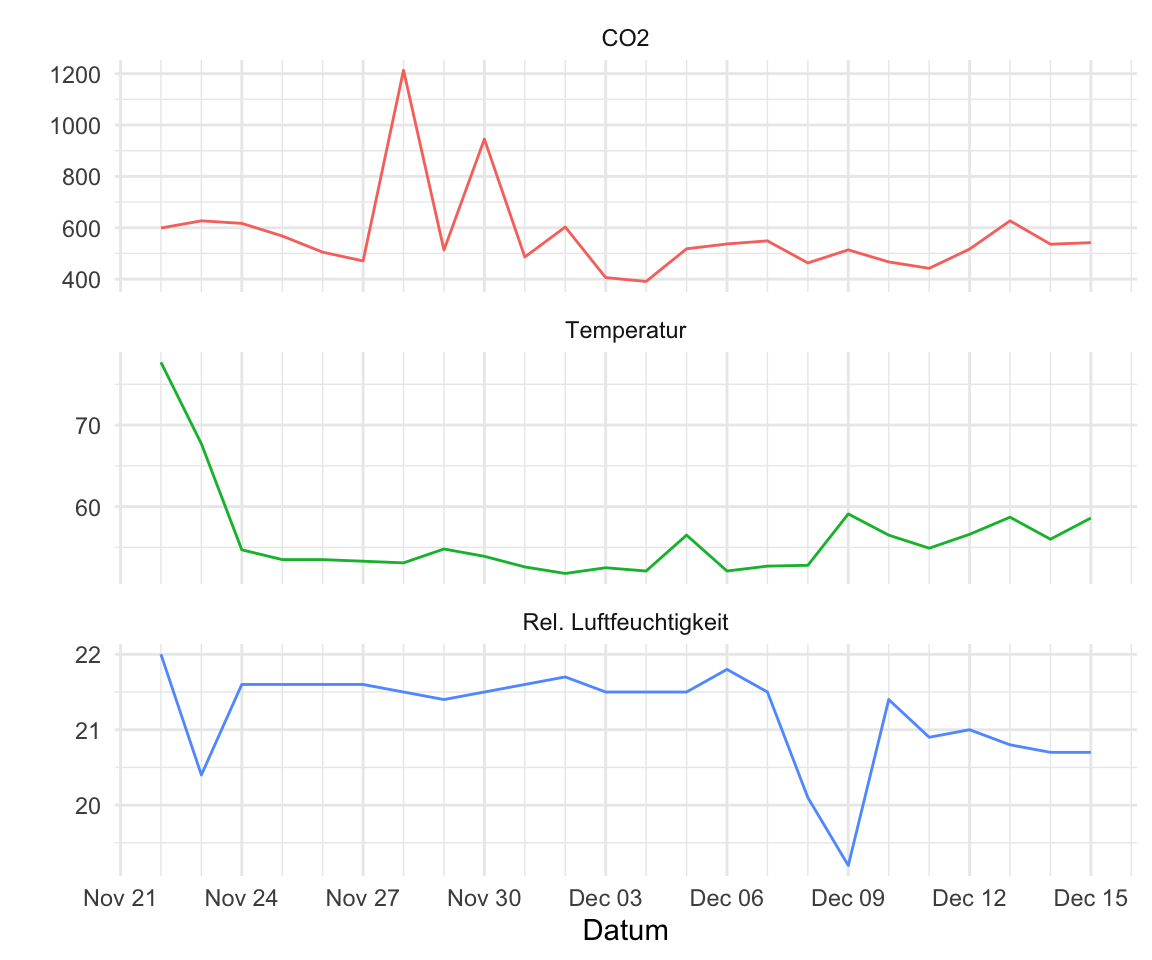
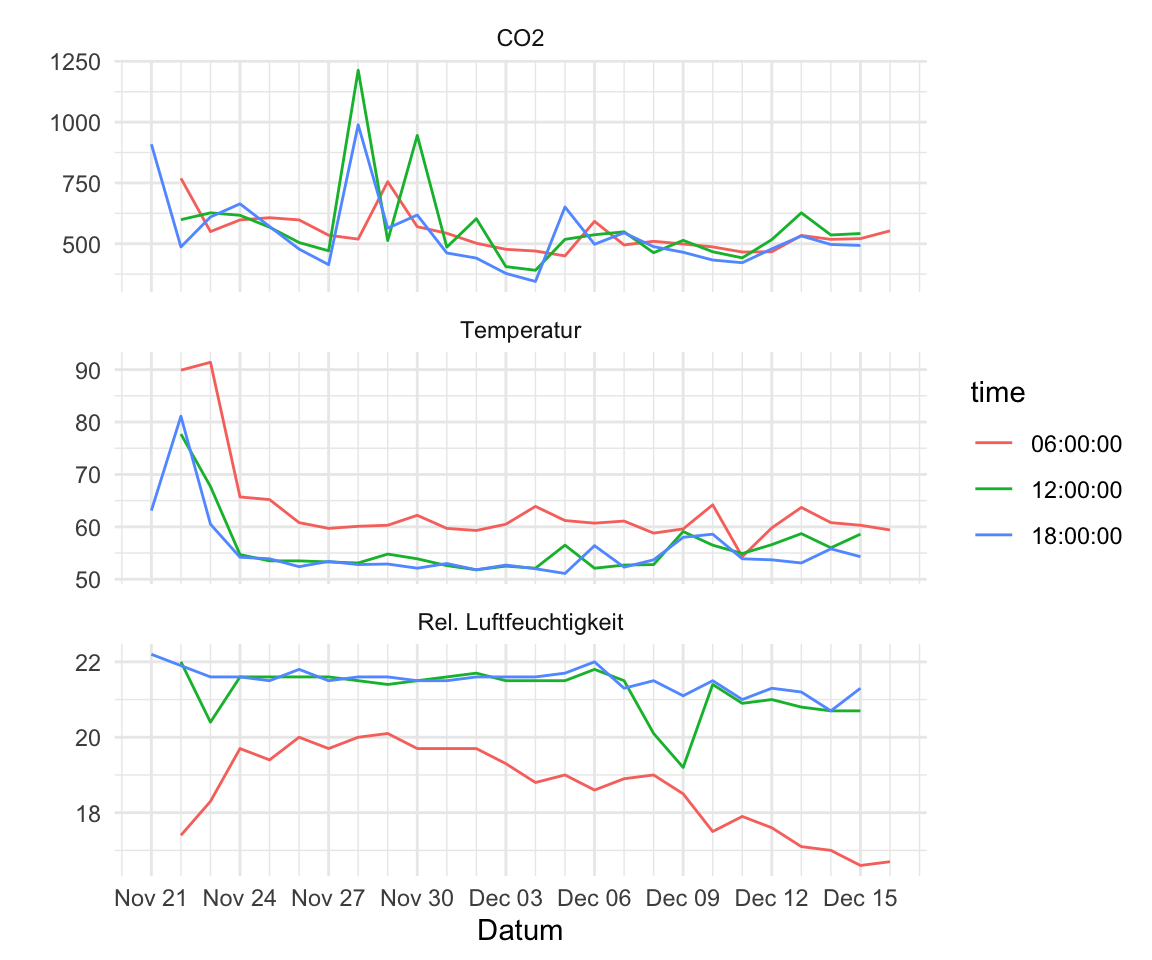
added text

diff --git a/docs/app-example-analysis.html b/docs/app-example-analysis.html
@@ -594,7 +594,7 @@ code span.wa { color: #60a0b0; font-weight: bold; font-style: italic; } /* Warni
 </header><div class="cell">
 
 </div>
-<p><em>Version vom January 04, 2023 um 11:21:58</em></p>
+<p><em>Version vom January 05, 2023 um 15:22:11</em></p>
 <div class="callout-tip callout callout-style-default callout-captioned">
 <div class="callout-header d-flex align-content-center">
 <div class="callout-icon-container">
@@ -620,10 +620,8 @@ Beispielhafte Auswertungen per Video
 <li>In <a href="#sec-plowing-data"><span>Kapitel&nbsp;A.9</span></a> haben wir nochmal ein schönes Beispiel für eine Analyse mit mehreren Faktoren und verschiedenen Outcomes. Wir haben also einen Blumenstrauß an Daten, die wir sortieren und auswerten müssen. Da ich selber keine Ahnung vom Pflügen habe, gehen wir die Sache distanziert durch.</li>
 <li>In <a href="#sec-app-mixed-cutting"><span>Kapitel&nbsp;A.10</span></a> schauen wir uns ein lineares gemischtes Modell an. Das heißt, wir wollen einen Gruppenvergleich rechnen und dabei die verschiedenen Zeitpunkte mit berücksichtigen. Anstatt also jeden Zeitpunkt einzeln, rechnen wir alle Zeitpunkte zusammen.</li>
 <li>In <a href="#sec-app-spinach-metal"><span>Kapitel&nbsp;A.11</span></a> wollen wir uns die Konzentration von drei Spurenelementen als Outcome in Blättern und Stielen der Spinatpflanze anschauen. Wir haben hierfür dann die Konzentration von Fe, Cd und Zn gemessen. Insgesamt gab es sieben verschiedene Behandlungsformen.</li>
-<li>In <a href="#sec-app-logger"><span>Kapitel&nbsp;A.12</span></a>
-</li>
-<li>In <a href="#sec-app-golf-green"><span>Kapitel&nbsp;A.13</span></a>
-</li>
+<li>In <a href="#sec-app-logger"><span>Kapitel&nbsp;A.12</span></a> schauen wir uns die Daten eines automatischen Log-Gerätes einmal an. Wir haben die Daten von über 35000 Messungen in über knapp zwei Wochen erhoben. Wir wollen jetzt diese Daten auf verschiedene Art und Weise visualisieren und die Ergebnisse der Plots vergleichen.</li>
+<li>In <a href="#sec-app-golf-green"><span>Kapitel&nbsp;A.13</span></a> betrachten wir das Wachstum von Pilzen auf zwei Grasflächen und vier Blöcken. Insgesamt wurden fünfzehn Behandlungen auf den Rasen aufgebracht, was natürlich zu einer gewaltigen Anzahl an Vergleichen führt.</li>
 </ul>
 <p>Je weiter du nach unten in diesem Kapitel kommst, desto weniger Text wirst du finden. Ich werde noch eine Zeit brauchen, bis ich alles wieder schon mit Text hier verarbeitet habe. Es wird aber immer mal wieder etwas <em>messy</em> aussehen. Hier wird eben auch gearbeitet. Der R Code wird dann aber immer funktionieren, nur die Beschreibungen sind dann eben manchmal nicht da.</p>
 <section id="genutzte-r-pakete" class="level2" data-number="A.1"><h2 data-number="A.1" class="anchored" data-anchor-id="genutzte-r-pakete">
@@ -709,7 +707,7 @@ II 25 32 5 1</code></pre>
     Pearson's Chi-squared test
 
 data:  rel_mat
-X-squared = 13.8689, df = 3, p-value = 0.0030892</code></pre>
+X-squared = 13.869, df = 3, p-value = 0.003089</code></pre>
 </div>
 </div>
 <p>Wir erhalten einen sehr kleinen <span class="math inline">\(p\)</span>-Wert mit <span class="math inline">\(0.003\)</span>. Wir können daher die Nullhypothese ablehnen, da der <span class="math inline">\(p\)</span>-Wert kleiner ist als das Signifikanzniveau <span class="math inline">\(\alpha\)</span> mit 5%. Wir haben ein signifikantes Ergebnis. Wir können von einen Zusamenhang zwischen den beiden Gruppen ausgehen.</p>
@@ -2145,25 +2143,25 @@ Formula: rsp ~ trt + block + trt:block + (1 | week)
 REML criterion at convergence: 1067.5
 
 Scaled residuals: 
-     Min       1Q   Median       3Q      Max 
--3.59023 -0.52072 -0.00942  0.49560  4.68315 
+    Min      1Q  Median      3Q     Max 
+-3.5902 -0.5207 -0.0094  0.4956  4.6832 
 
 Random effects:
  Groups   Name        Variance Std.Dev.
- week     (Intercept) 109.134  10.4467 
- Residual              13.818   3.7173 
+ week     (Intercept) 109.13   10.447  
+ Residual              13.82    3.717  
 Number of obs: 192, groups:  week, 8
 
 Fixed effects:
-                       Estimate Std. Error  t value
-(Intercept)           47.284722   3.770618  12.5403
-trtnodium_3rd        -21.298611   1.073088 -19.8480
-trtnodium_5th        -15.576389   1.073088 -14.5155
-trtstrong            -29.034722   1.073088 -27.0572
-block2                -0.014028   1.073088  -0.0131
-trtnodium_3rd:block2  -2.194167   1.517575  -1.4458
-trtnodium_5th:block2  -1.576111   1.517575  -1.0386
-trtstrong:block2       2.979444   1.517575   1.9633
+                      Estimate Std. Error t value
+(Intercept)           47.28472    3.77062  12.540
+trtnodium_3rd        -21.29861    1.07309 -19.848
+trtnodium_5th        -15.57639    1.07309 -14.515
+trtstrong            -29.03472    1.07309 -27.057
+block2                -0.01403    1.07309  -0.013
+trtnodium_3rd:block2  -2.19417    1.51758  -1.446
+trtnodium_5th:block2  -1.57611    1.51758  -1.039
+trtstrong:block2       2.97944    1.51758   1.963
 
 Correlation of Fixed Effects:
             (Intr) trtn_3 trtn_5 trtstr block2 tr_3:2 tr_5:2
@@ -2319,10 +2317,10 @@ P value adjustment: bonferroni method for 3 tests </code></pre>
 <pre><code>Analysis of Variance Table
 
 Response: rsp
-          Df   Sum Sq  Mean Sq  F value        Pr(&gt;F)    
-trt        6 1015.454 169.2424 19.05310 0.00000067589 ***
-block      3   84.352  28.1174  3.16542      0.049752 *  
-Residuals 18  159.888   8.8827                           
+          Df  Sum Sq Mean Sq F value    Pr(&gt;F)    
+trt        6 1015.45 169.242 19.0531 6.759e-07 ***
+block      3   84.35  28.117  3.1654   0.04975 *  
+Residuals 18  159.89   8.883                      
 ---
 Signif. codes:  0 '***' 0.001 '**' 0.01 '*' 0.05 '.' 0.1 ' ' 1</code></pre>
 </div>
@@ -2369,7 +2367,11 @@ block     |           0.35 | [0.00, 1.00]
  trt3 - trt6   -4.721 2.11 18  -2.240  0.7970
  trt3 - trt7   -6.066 2.11 18  -2.878  0.2101
  trt4 - trt5    6.211 2.11 18   2.947  0.1809
- [ reached getOption("max.print") -- omitted 5 rows ]
+ trt4 - trt6    0.552 2.11 18   0.262  1.0000
+ trt4 - trt7   -0.793 2.11 18  -0.376  1.0000
+ trt5 - trt6   -5.659 2.11 18  -2.685  0.3175
+ trt5 - trt7   -7.004 2.11 18  -3.323  0.0794
+ trt6 - trt7   -1.345 2.11 18  -0.638  1.0000
 
 Results are averaged over the levels of: block 
 P value adjustment: bonferroni method for 21 tests </code></pre>
@@ -2596,13 +2598,14 @@ NOTE: If two or more means share the same grouping symbol,
 <p>Mit der Option <code>print(n = 15)</code> kannst du dir die ersten fünfzehn Zeilen ausgeben lassen. du musst also schauen, wie viele Zeilen dein Tibble hat und dann kannst du dir das ganze Tibble über die Funktion <code><a href="https://rdrr.io/r/base/print.html">print()</a></code> ausgeben lassen. Ich nutze immer diese Art der Ausgabe mit <code><a href="https://rdrr.io/r/base/print.html">print()</a></code> da es sicherer ist, als sich immer den ganzen Datensatz wiedergeben zu lassen. Mit sicherer meine ich, dass ich mir nicht die ganze R Console mit der Ausgabe zubaue.</p>
 </section></section><section id="sec-app-logger" class="level2" data-number="A.12"><h2 data-number="A.12" class="anchored" data-anchor-id="sec-app-logger">
 <span class="header-section-number">A.12</span> Daten eines automatischen Loggers</h2>
+<p>Die Daten des Loggers liegen in einer Exceldatei ab. Wir haben jede Minute die Konzentration von CO<span class="math inline">\(_2\)</span>, die Temperatur und die relative Feuchte messen lassen. Da wir das Datum in einem ungünstigen Format vorliegen haben, müssen wir der Funktion <code>as_date()</code> die Tage, Monate und das Jahr als Format mitgeben. Wir schreiben <code>'%d.%m.%Y'</code> und meinen damit, dass erst der Tag, dann der Monat und dann das Jahr angeben ist. Getrennt sind die Tage, Monate und Jahre durch einen Punkt. Dann verbinden wir noch die Spalte des Datums mit der Spalte des Uhrzeit und bauen uns daraus eine <code>date_time</code> Spalte. Die <code>date_time</code> Spalte brauchen wir um später für jeden Zeitpunkt die gemessenen Werte darstellen zu können.</p>
 <div class="cell">
 <div class="sourceCode" id="cb143"><pre class="downlit sourceCode r code-with-copy"><code class="sourceCode R"><span><span class="va">log_tbl</span> <span class="op">&lt;-</span> <span class="fu">read_excel</span><span class="op">(</span><span class="st">"data/log_data.xlsx"</span><span class="op">)</span> <span class="op">%&gt;%</span> </span>
 <span>  <span class="fu">mutate</span><span class="op">(</span>date <span class="op">=</span> <span class="fu">as_date</span><span class="op">(</span><span class="va">date</span>, format <span class="op">=</span> <span class="st">'%d.%m.%Y'</span><span class="op">)</span>,</span>
 <span>         date_time <span class="op">=</span> <span class="fu">as_datetime</span><span class="op">(</span><span class="fu">str_c</span><span class="op">(</span><span class="va">date</span>, <span class="st">" "</span>, <span class="va">time</span><span class="op">)</span><span class="op">)</span><span class="op">)</span> <span class="op">%&gt;%</span> </span>
 <span>  <span class="fu">select</span><span class="op">(</span><span class="va">date_time</span>, <span class="fu">everything</span><span class="op">(</span><span class="op">)</span><span class="op">)</span></span></code><button title="In die Zwischenablage kopieren" class="code-copy-button"><i class="bi"></i></button></pre></div>
 </div>
-<p>Insgesamt hat unsere Datei <span class="math inline">\(n = 35761\)</span> Beobachtungen für die Zeit vom 21. November 2022 bis zum 16. Dezember 2022.</p>
+<p>Insgesamt hat unsere Datei <span class="math inline">\(n = 35761\)</span> Beobachtungen für die Zeit vom 21. November 2022 bis zum 16. Dezember 2022. Dank unserem Tibble wird nicht die ganze Datei wiedergegeben sondern nur die ersten zehn Zeilen.</p>
 <div class="cell">
 <div class="sourceCode" id="cb144"><pre class="downlit sourceCode r code-with-copy"><code class="sourceCode R"><span><span class="va">log_tbl</span></span></code><button title="In die Zwischenablage kopieren" class="code-copy-button"><i class="bi"></i></button></pre></div>
 <div class="cell-output cell-output-stdout">
@@ -2622,7 +2625,7 @@ NOTE: If two or more means share the same grouping symbol,
 # … with 35,751 more rows</code></pre>
 </div>
 </div>
-<p>Wir wollen dann auch die Outcomes nochmal anders benennen.</p>
+<p>Wir immer müssen wir die Daten noch aus dem Wide-Format in das Long-Format überführen. Wir wollen dann auch die Outcomes nochmal anders benennen und machen die Umbenennung gleich bei der Erstellung der Faktoren. Dann sind wir auch schon fertig mit der Datenvorbereitung und können dann mit den Abbilungen beginnen.</p>
 <div class="cell">
 <div class="sourceCode" id="cb146"><pre class="downlit sourceCode r code-with-copy"><code class="sourceCode R"><span><span class="va">log_plot_tbl</span> <span class="op">&lt;-</span> <span class="va">log_tbl</span> <span class="op">%&gt;%</span> </span>
 <span>  <span class="fu">pivot_longer</span><span class="op">(</span>cols <span class="op">=</span> <span class="va">co2</span><span class="op">:</span><span class="va">relh</span>, </span>
@@ -2631,7 +2634,7 @@ NOTE: If two or more means share the same grouping symbol,
 <span>  <span class="fu">mutate</span><span class="op">(</span>outcome <span class="op">=</span> <span class="fu"><a href="https://rdrr.io/r/base/factor.html">factor</a></span><span class="op">(</span><span class="va">outcome</span>, </span>
 <span>                          labels <span class="op">=</span> <span class="fu"><a href="https://rdrr.io/r/base/c.html">c</a></span><span class="op">(</span><span class="st">"CO2"</span>, <span class="st">"Temperatur"</span>, <span class="st">"Rel. Luftfeuchtigkeit"</span><span class="op">)</span><span class="op">)</span><span class="op">)</span> </span></code><button title="In die Zwischenablage kopieren" class="code-copy-button"><i class="bi"></i></button></pre></div>
 </div>
-<p><a href="#fig-app-log-01">Abbildung&nbsp;<span>A.18</span></a></p>
+<p>In <a href="#fig-app-log-01">Abbildung&nbsp;<span>A.18</span></a> sehen wir alle Messdaten aufgetragen. Die Zeit für den Plot ist relativ überschaubar und wir erhalten das Ergebnis in wenigen Augenblicken. Daher spricht eigentlich nichts für diese Darstellung über alle Messdaten. Wir sehen, dass die Temperatur am Anfang höher war, als im späteren Verlauf. Auch haben wir einen Peak an CO<span class="math inline">\(_2\)</span> um den 29. November sowie ein paar Tage später. Die Luftfeuchte zeigt im Laufe der Messungen eine immer höhere Variabilität.</p>
 <div class="cell" data-layout-align="center">
 <div class="sourceCode" id="cb147"><pre class="downlit sourceCode r code-with-copy"><code class="sourceCode R"><span><span class="fu">ggplot</span><span class="op">(</span><span class="va">log_plot_tbl</span>, <span class="fu">aes</span><span class="op">(</span><span class="va">date_time</span>, <span class="va">rsp</span>, color <span class="op">=</span> <span class="va">outcome</span><span class="op">)</span><span class="op">)</span> <span class="op">+</span></span>
 <span>  <span class="fu">theme_minimal</span><span class="op">(</span><span class="op">)</span> <span class="op">+</span></span>
@@ -2649,6 +2652,7 @@ NOTE: If two or more means share the same grouping symbol,
 </div>
 </div>
 </div>
+<p>Wir könnten über die <code>summarise</code> Funktion auch die Werte für jeden Tag mitteln und uns die Standardabweichung über den Tag als Wert für die Variabilität wiedergeben lassen.</p>
 <div class="cell">
 <div class="sourceCode" id="cb148"><pre class="downlit sourceCode r code-with-copy"><code class="sourceCode R"><span><span class="va">log_plot_sum_tbl</span> <span class="op">&lt;-</span> <span class="va">log_plot_tbl</span> <span class="op">%&gt;%</span> </span>
 <span>  <span class="fu">group_by</span><span class="op">(</span><span class="va">date</span>, <span class="va">outcome</span><span class="op">)</span> <span class="op">%&gt;%</span> </span>
@@ -2656,7 +2660,7 @@ NOTE: If two or more means share the same grouping symbol,
 <span>            median <span class="op">=</span> <span class="fu"><a href="https://rdrr.io/r/stats/median.html">median</a></span><span class="op">(</span><span class="va">rsp</span><span class="op">)</span>,</span>
 <span>            sd <span class="op">=</span> <span class="fu"><a href="https://rdrr.io/r/stats/sd.html">sd</a></span><span class="op">(</span><span class="va">rsp</span><span class="op">)</span><span class="op">)</span></span></code><button title="In die Zwischenablage kopieren" class="code-copy-button"><i class="bi"></i></button></pre></div>
 </div>
-<p><a href="#fig-app-log-02">Abbildung&nbsp;<span>A.19</span></a></p>
+<p>In der <a href="#fig-app-log-02">Abbildung&nbsp;<span>A.19</span></a> plotten wir uns einmal die Mittelwerte für jeden Tag und die entsprechende Standardabweichung als schattierte Fläche. Hier sehen wir sehr schön den Abfall der Luftfeuchte sowie die eher konstante Temperatur ab dem 24. November. Auch wird der Peak in der CO<span class="math inline">\(_2\)</span> Konzentration etwas ausgeglichen. Wir sehen den Effekt aber immer noch gut.</p>
 <div class="cell" data-layout-align="center">
 <div class="sourceCode" id="cb149"><pre class="downlit sourceCode r code-with-copy"><code class="sourceCode R"><span><span class="fu">ggplot</span><span class="op">(</span><span class="va">log_plot_sum_tbl</span>, <span class="fu">aes</span><span class="op">(</span><span class="va">date</span>, <span class="va">mean</span><span class="op">)</span><span class="op">)</span> <span class="op">+</span></span>
 <span>  <span class="fu">theme_minimal</span><span class="op">(</span><span class="op">)</span> <span class="op">+</span></span>
@@ -2677,24 +2681,25 @@ NOTE: If two or more means share the same grouping symbol,
 </div>
 </div>
 </div>
+<p>Abschließend könnten wir uns auch nur gewisse Zeitpunkte anschauen. Wir wollen also zum Beispiel nur die Werte für die Zeitpunkte um 6 Uhr, 12 Uhr und 18 Uhr visualisieren. Dann filtern wir nur diese Zeitpunkte heraus und können diese Zeitpunkte dann als eigenständige Linien einzeichnen.</p>
 <div class="cell">
 <div class="sourceCode" id="cb150"><pre class="downlit sourceCode r code-with-copy"><code class="sourceCode R"><span><span class="va">log_plot_filter_tbl</span> <span class="op">&lt;-</span> <span class="va">log_plot_tbl</span> <span class="op">%&gt;%</span> </span>
-<span>  <span class="fu"><a href="https://rdrr.io/r/stats/filter.html">filter</a></span><span class="op">(</span><span class="va">time</span> <span class="op">==</span> <span class="st">"12:00:00"</span><span class="op">)</span></span></code><button title="In die Zwischenablage kopieren" class="code-copy-button"><i class="bi"></i></button></pre></div>
+<span>  <span class="fu"><a href="https://rdrr.io/r/stats/filter.html">filter</a></span><span class="op">(</span><span class="va">time</span> <span class="op"><a href="https://rdrr.io/r/base/match.html">%in%</a></span> <span class="fu"><a href="https://rdrr.io/r/base/c.html">c</a></span><span class="op">(</span><span class="st">"06:00:00"</span>, <span class="st">"12:00:00"</span>, <span class="st">"18:00:00"</span><span class="op">)</span><span class="op">)</span></span></code><button title="In die Zwischenablage kopieren" class="code-copy-button"><i class="bi"></i></button></pre></div>
 </div>
-<p><a href="#fig-app-log-03">Abbildung&nbsp;<span>A.20</span></a></p>
+<p>In <a href="#fig-app-log-03">Abbildung&nbsp;<span>A.20</span></a> sehen wir die Verläufe für die Messzeitpunkte um 6 Uhr, 12 Uhr und dann 18 Uhr. Spannender weise fällt um 12 Uhr die Luftfeuchtigkeit am 9. Dezember. Auch sind die Werte etwas anders für jede Uhrzeit. Da ich mich hier nicht auskenne, was wo und wie gemessen wurde, lassen wir das hier mal so stehen.</p>
 <div class="cell" data-layout-align="center">
-<div class="sourceCode" id="cb151"><pre class="downlit sourceCode r code-with-copy"><code class="sourceCode R"><span><span class="fu">ggplot</span><span class="op">(</span><span class="va">log_plot_filter_tbl</span>, <span class="fu">aes</span><span class="op">(</span><span class="va">date</span>, <span class="va">rsp</span>, color <span class="op">=</span> <span class="va">outcome</span><span class="op">)</span><span class="op">)</span> <span class="op">+</span></span>
+<div class="sourceCode" id="cb151"><pre class="downlit sourceCode r code-with-copy"><code class="sourceCode R"><span><span class="fu">ggplot</span><span class="op">(</span><span class="va">log_plot_filter_tbl</span>, <span class="fu">aes</span><span class="op">(</span><span class="va">date</span>, <span class="va">rsp</span>, color <span class="op">=</span> <span class="va">time</span><span class="op">)</span><span class="op">)</span> <span class="op">+</span></span>
 <span>  <span class="fu">theme_minimal</span><span class="op">(</span><span class="op">)</span> <span class="op">+</span></span>
 <span>  <span class="fu">geom_line</span><span class="op">(</span><span class="op">)</span> <span class="op">+</span></span>
 <span>  <span class="fu">facet_wrap</span><span class="op">(</span><span class="op">~</span> <span class="va">outcome</span>, scales <span class="op">=</span> <span class="st">"free_y"</span>, nrow <span class="op">=</span> <span class="fl">3</span><span class="op">)</span> <span class="op">+</span></span>
 <span>  <span class="fu">scale_x_date</span><span class="op">(</span>date_labels <span class="op">=</span> <span class="st">"%b %d"</span>, date_breaks <span class="op">=</span> <span class="st">"3 day"</span>,</span>
 <span>               date_minor_breaks <span class="op">=</span> <span class="st">"1 day"</span><span class="op">)</span> <span class="op">+</span></span>
-<span>  <span class="fu">theme</span><span class="op">(</span>legend.position <span class="op">=</span> <span class="st">"none"</span><span class="op">)</span> <span class="op">+</span></span>
+<span>  <span class="co">##theme(legend.position = "none") +</span></span>
 <span>  <span class="fu">labs</span><span class="op">(</span>x <span class="op">=</span> <span class="st">"Datum"</span>, y <span class="op">=</span> <span class="st">""</span><span class="op">)</span></span></code><button title="In die Zwischenablage kopieren" class="code-copy-button"><i class="bi"></i></button></pre></div>
 <div class="cell-output-display">
 <div id="fig-app-log-03" class="quarto-figure quarto-figure-center anchored">
 <figure class="figure"><p><img src="app-example-analysis_files/figure-html/fig-app-log-03-1.png" class="img-fluid figure-img" width="576"></p>
-<p></p><figcaption class="figure-caption">Abbildung&nbsp;A.20— Abbildung der drei Outcomes für den Zeitpunkt 12:00:00.</figcaption><p></p>
+<p></p><figcaption class="figure-caption">Abbildung&nbsp;A.20— Abbildung der drei Outcomes für den Zeitpunkt 6 Uhr, 12 Uhr und 18 Uhr.</figcaption><p></p>
 </figure>
 </div>
 </div>

diff --git a/docs/index.html b/docs/index.html
@@ -538,7 +538,7 @@ ul.task-list li input[type="checkbox"] {
     <div>
     <div class="quarto-title-meta-heading">Veröffentlichungsdatum</div>
     <div class="quarto-title-meta-contents">
-      <p class="date">4. Januar 2022</p>
+      <p class="date">6. Januar 2022</p>
     </div>
   </div>
   
